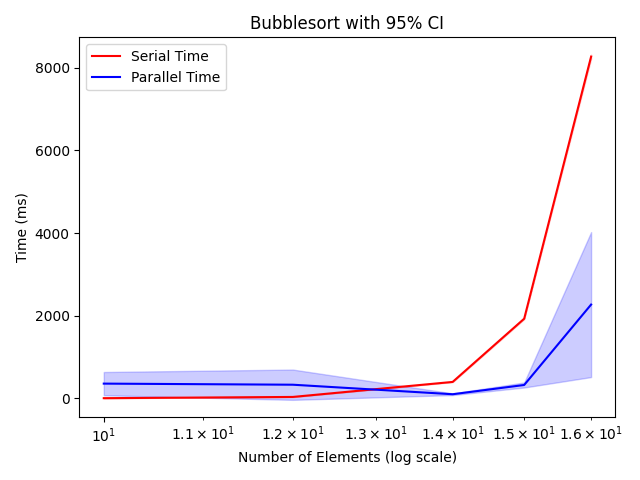
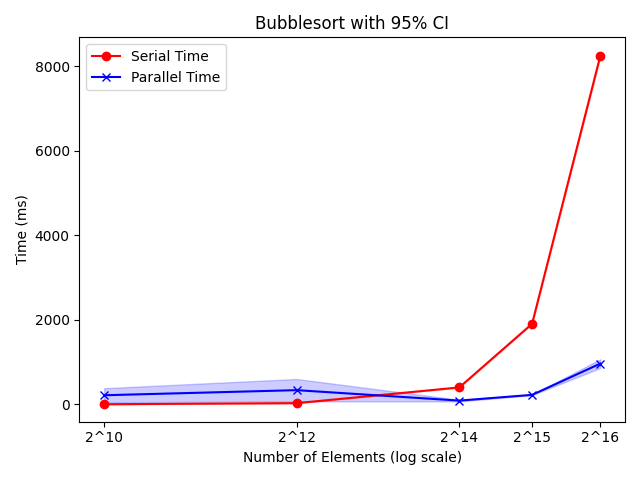
plots for new algs

diff --git a/no-visualizer/runner.py b/no-visualizer/runner.py
@@ -9,13 +9,11 @@ def main():
     # Since bubble and selection sort are too slow, use the smaller number of elements
     # The values are the exponents of 2 for the number of elements
 
-    # n_elements_array = [12, 14, 15, 16, 17, 18, 19, 20, 21] # Merge, Bitonic, and Heap sort
-    # n_elements_array = [10, 12, 14, 15, 16] # Bubble, Selection, and Quick sort
-    n_elements_array = [5, 6, 7, 8, 9, ] # Quick sort
+    # n_elements_array = [12, 14, 15, 16, 17, 18, 19, 20, 21] # Merge, Bitonic, Heap and Quick
+    n_elements_array = [10, 12, 14, 15, 16] # Bubble, Selection
     
-    # sort_functions = ['mergeSort', 'bitonicSort', 'heapSort']
-    # sort_functions = ['bubbleSort', 'selectionSort', 'quickSort']
-    sort_functions = ['quickSort']
+    # sort_functions = ['quickSort', 'heapSort', 'mergeSort', 'bitonicSort']
+    sort_functions = ['bubbleSort', 'selectionSort']
 
     n_iterations = 10 # Number of iterations for each number of elements for each sort
     serial_time = {}
@@ -70,8 +68,8 @@ def main():
         print(f"Parallel mean for {sort}: {p_mean}")
 
         plt.figure()
-        plt.plot(n_elements_array, s_mean, label='Serial Time', color='r')
-        plt.plot(n_elements_array, p_mean, label='Parallel Time', color='b')
+        plt.plot(n_elements_array, s_mean, label='Serial Time', color='r', marker='o')
+        plt.plot(n_elements_array, p_mean, label='Parallel Time', color='b', marker='x')
         plt.fill_between(n_elements_array, p_mean - p_ci, p_mean + p_ci, color='b', alpha=0.2)
         plt.fill_between(n_elements_array, s_mean - s_ci, s_mean + s_ci, color='r', alpha=0.2)
         plt.xscale('log')
@@ -79,6 +77,8 @@ def main():
         plt.xlabel("Number of Elements (log scale)")
         plt.ylabel("Time (ms)")
         plt.legend(["Serial Time", "Parallel Time"])
+        plt.xticks(n_elements_array, [f'2^{x}' for x in n_elements_array])
+        plt.minorticks_off()
         plt.tight_layout()
         plt.savefig(f"plots/{sort}_time.png")
         plt.close()
